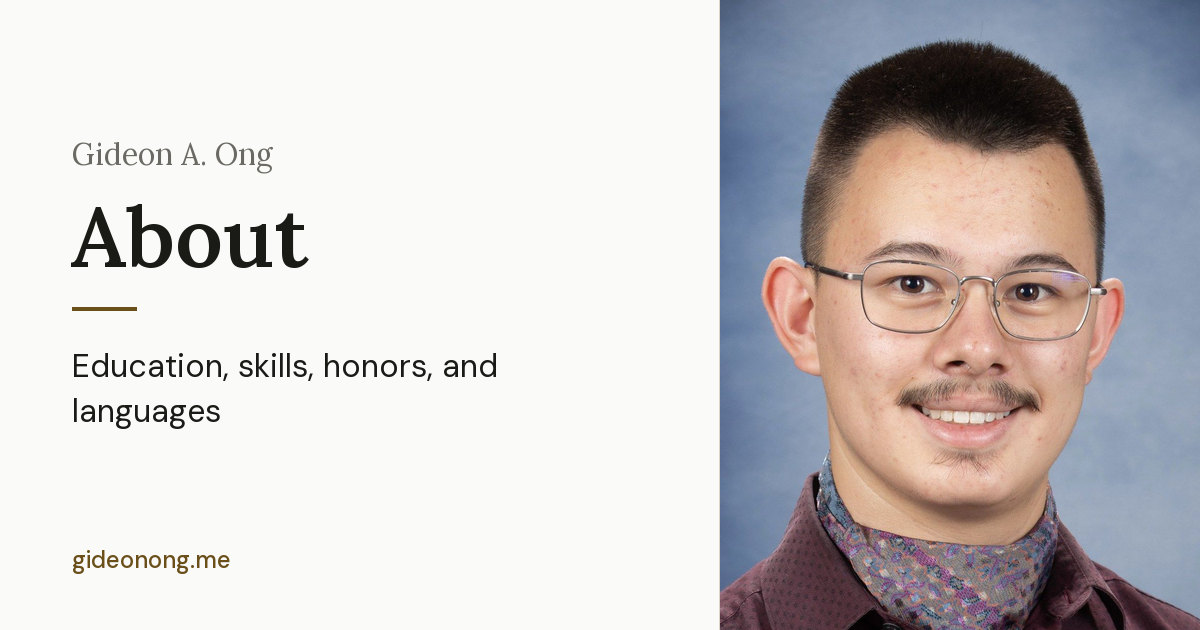
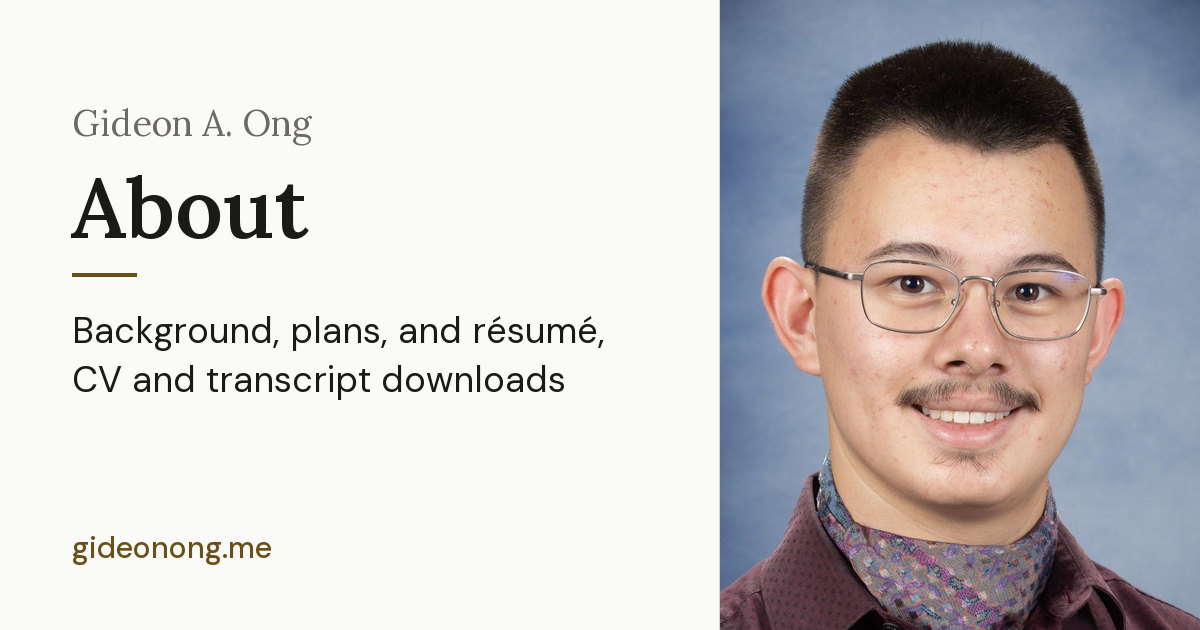
Link previews: LinkedIn-legible cards; Eagle photo card; About description
LinkedIn shows cards at ~400-550 px and re-compresses them, which turned
the G-View screenshot and the small card text to mush. Designed cards get
larger small text and a fitting loop (long titles shrink; text is never
cut, an overflow is an error). G-View becomes a designed card with a
native-scale detail of the demo chart. Eagle uses a people-free crop of
Matthew Rowan's finished-path photo with "Photo: Matthew Rowan" on the
card. Both switch from .png to .jpg; tags and alts updated.

About: card line and meta/og description now match what the page shows
(background, plans, résumé / CV / transcript downloads).

Changed region(s): [[0.0617, 0.4825, 0.4933, 0.6937], [0.0617, 0.181, 0.2775, 0.4524], [0.0617, 0.8444, 0.2467, 0.9048]]

diff --git a/projects/eagle-pathway.html b/projects/eagle-pathway.html
@@ -7,7 +7,7 @@
        render (and on language change) from the entry's title / desc keys. -->
   <title>Wheelchair-Accessible Pathway (Eagle Scout Project) — Gideon A. Ong</title>
   <meta name="description" content="Planned and led 27 volunteers to build a 273.5 sq ft ADA-compliant pathway for a business that employs adults with special needs.">
-  <!-- Link previews (static EN; scrapers don't run JS). Card: assets/images/og/eagle-pathway.png,
+  <!-- Link previews (static EN; scrapers don't run JS). Card: assets/images/og/eagle-pathway.jpg,
        made by scripts/make-og-cards.py. See CLAUDE.md → Link previews. -->
   <meta property="og:type" content="website">
   <meta property="og:site_name" content="Gideon A. Ong">
@@ -15,10 +15,10 @@
   <meta property="og:title" content="Wheelchair-Accessible Pathway (Eagle Scout Project)">
   <meta property="og:description" content="Planned and led 27 volunteers to build a 273.5 sq ft ADA-compliant pathway for a business that employs adults with special needs.">
   <meta property="og:url" content="https://gideonong.me/projects/eagle-pathway.html">
-  <meta property="og:image" content="https://gideonong.me/assets/images/og/eagle-pathway.png">
+  <meta property="og:image" content="https://gideonong.me/assets/images/og/eagle-pathway.jpg">
   <meta property="og:image:width" content="1200">
   <meta property="og:image:height" content="630">
-  <meta property="og:image:alt" content="Card: Wheelchair-Accessible Pathway (Eagle Scout Project), with the project's one-line summary">
+  <meta property="og:image:alt" content="Card: Wheelchair-Accessible Pathway (Eagle Scout Project), beside the finished decomposed granite pathway (photo: Matthew Rowan)">
   <meta name="twitter:card" content="summary_large_image">
   <link rel="icon" href="../assets/glogo.ico" type="image/x-icon">
   <!-- No-flash viewing settings: apply saved prefs to <html> before first paint.

diff --git a/projects/g-view.html b/projects/g-view.html
@@ -7,7 +7,7 @@
        render (and on language change) from the entry's title / desc keys. -->
   <title>G-View: Test Data Review App — Gideon A. Ong</title>
   <meta name="description" content="Built a desktop app for reviewing large test-data spreadsheets: plot the data, crop out bad sections, and export clean copies.">
-  <!-- Link previews (static EN; scrapers don't run JS). Card: assets/images/og/g-view.png,
+  <!-- Link previews (static EN; scrapers don't run JS). Card: assets/images/og/g-view.jpg,
        made by scripts/make-og-cards.py. See CLAUDE.md → Link previews. -->
   <meta property="og:type" content="website">
   <meta property="og:site_name" content="Gideon A. Ong">
@@ -15,10 +15,10 @@
   <meta property="og:title" content="G-View: Test Data Review App">
   <meta property="og:description" content="Built a desktop app for reviewing large test-data spreadsheets: plot the data, crop out bad sections, and export clean copies.">
   <meta property="og:url" content="https://gideonong.me/projects/g-view.html">
-  <meta property="og:image" content="https://gideonong.me/assets/images/og/g-view.png">
+  <meta property="og:image" content="https://gideonong.me/assets/images/og/g-view.jpg">
   <meta property="og:image:width" content="1200">
   <meta property="og:image:height" content="630">
-  <meta property="og:image:alt" content="G-View plotting speed, torque, oil temperature, and vibration from a demo test file">
+  <meta property="og:image:alt" content="Card: G-View: Test Data Review App, beside a detail of its demo chart">
   <meta name="twitter:card" content="summary_large_image">
   <link rel="icon" href="../assets/glogo.ico" type="image/x-icon">
   <!-- No-flash viewing settings: apply saved prefs to <html> before first paint.

diff --git a/about.html b/about.html
@@ -4,14 +4,14 @@
   <meta charset="UTF-8">
   <meta name="viewport" content="width=device-width, initial-scale=1.0">
   <title>About — Gideon A. Ong</title>
-  <meta name="description" content="About Gideon A. Ong: education, skills, honors, and languages.">
+  <meta name="description" content="About Gideon A. Ong: background, plans, and résumé, CV and transcript downloads.">
   <!-- Link previews (static EN; scrapers don't run JS). Card: assets/images/og/about.jpg,
        made by scripts/make-og-cards.py. See CLAUDE.md → Link previews. -->
   <meta property="og:type" content="website">
   <meta property="og:site_name" content="Gideon A. Ong">
   <meta property="og:locale" content="en_US">
   <meta property="og:title" content="About — Gideon A. Ong">
-  <meta property="og:description" content="About Gideon A. Ong: education, skills, honors, and languages.">
+  <meta property="og:description" content="About Gideon A. Ong: background, plans, and résumé, CV and transcript downloads.">
   <meta property="og:url" content="https://gideonong.me/about.html">
   <meta property="og:image" content="https://gideonong.me/assets/images/og/about.jpg">
   <meta property="og:image:width" content="1200">

diff --git a/scripts/make-og-cards.py b/scripts/make-og-cards.py
@@ -47,13 +47,14 @@ CARDS = {
         "kind": "designed", "format": "jpg",
         "title": "Gideon A. Ong",
         "line": "Mechanical Engineering & Spanish\nUniversity of Tulsa",
+        "line_size": 32,                              # keeps "… & Spanish" on one line
         "panel": [(IMG / "about" / "headshot.jpg", 0.5, 0.4)],
     },
     "about": {
         "kind": "designed", "format": "jpg",
         "kicker": "Gideon A. Ong",
         "title": "About",
-        "line": "Education, skills, honors, and languages",
+        "line": "Background, plans, and résumé, CV and transcript downloads",
         "panel": [(IMG / "about" / "headshot.jpg", 0.5, 0.4)],
     },
     "experience": {
@@ -75,18 +76,26 @@ CARDS = {
         "kind": "photo", "format": "jpg",
         "src": IMG / "projects" / "pump-cylinder-failure" / "pin-installed-wide.jpg", "focus": (0.5, 0.5),
     },
+    # Designed: a full screenshot's thin lines and small labels don't survive LinkedIn's
+    # downscale, so the panel is a native-scale detail of the demo chart (the vibration spike).
     "g-view": {
-        "kind": "photo", "format": "png",
-        "src": IMG / "projects" / "g-view" / "g-view-demo.png", "focus": (0.5, 0.0),   # trim the empty bottom
-    },
-    # Designed, no photo: the Eagle photos are Matthew Rowan's (credit OK pending).
-    "eagle-pathway": {
-        "kind": "designed", "format": "png",
+        "kind": "designed", "format": "jpg",
         "kicker": "Gideon A. Ong",
+        "title": "G-View: Test Data Review App",
+        "line": "Plot the data, crop out bad sections, and export clean copies",
+        "meta": "Industry · Summer 2026",
+        "panel": [(IMG / "projects" / "g-view" / "g-view-demo.png", 0.5, 0.5, (820, 55, 1420, 700))],
+    },
+    # Panel: the finished path from finished-path.jpg, cropped so no faces show. The Eagle
+    # photos are Matthew Rowan's, so the card carries his credit like the page does.
+    # No kicker and the first clause of projEaglePathwayDesc only: the long title needs the room.
+    "eagle-pathway": {
+        "kind": "designed", "format": "jpg",
         "title": "Wheelchair-Accessible Pathway (Eagle Scout Project)",
-        "line": "Planned and led 27 volunteers to build a 273.5 sq ft ADA-compliant pathway "
-                "for a business that employs adults with special needs.",
+        "line": "Planned and led 27 volunteers to build a 273.5 sq ft ADA-compliant pathway",
         "meta": "Service · July 2022",
+        "panel": [(IMG / "projects" / "eagle-pathway" / "finished-path.jpg", 0.5, 0.5, (500, 500, 930, 1063))],
+        "credit": "Photo: Matthew Rowan",
     },
 }
 
@@ -136,9 +145,9 @@ def wrap(draw: ImageDraw.ImageDraw, text: str, f: ImageFont.FreeTypeFont, width:
     return lines
 
 
-def cover(src: Path, size: tuple[int, int], focus: tuple[float, float]) -> Image.Image:
+def cover(src: Path | Image.Image, size: tuple[int, int], focus: tuple[float, float]) -> Image.Image:
     """Scale to cover `size`, then crop around the focus point (fractions of the source)."""
-    im = Image.open(src).convert("RGB")
+    im = src if isinstance(src, Image.Image) else Image.open(src).convert("RGB")
     w, h = size
     scale = max(w / im.width, h / im.height)
     im = im.resize((round(im.width * scale), round(im.height * scale)), Image.LANCZOS)
@@ -147,18 +156,29 @@ def cover(src: Path, size: tuple[int, int], focus: tuple[float, float]) -> Image
     return im.crop((x, y, x + w, y + h))
 
 
-def draw_panel(im: Image.Image, d: ImageDraw.ImageDraw, panel: list) -> None:
+def draw_panel(im: Image.Image, d: ImageDraw.ImageDraw, panel: list, credit: str = "") -> None:
+    """Photos down the right side. Each item is (path, focus_x, focus_y) or
+    (path, focus_x, focus_y, (l, t, r, b)) to crop the source (in pixels) first."""
     pw = W - PANEL_X
     gap = 4
     ph = (H - gap * (len(panel) - 1)) // len(panel)
     y = 0
-    for i, (src, fx, fy) in enumerate(panel):
+    for i, item in enumerate(panel):
+        src, fx, fy = item[:3]
+        if len(item) > 3:                           # pre-crop, e.g. a detail of a screenshot
+            src = Image.open(src).convert("RGB").crop(item[3])
         h = ph if i < len(panel) - 1 else H - y
         im.paste(cover(src, (pw, h), (fx, fy)), (PANEL_X, y))
         y += h + gap
     if len(panel) > 1:                              # hairline gaps between stacked photos
         d.rectangle((PANEL_X, ph, W, ph + gap - 1), fill=BG)
     d.line([(PANEL_X - 1, 0), (PANEL_X - 1, H)], fill=BORDER, width=1)
+    if credit:                                      # photo credit on a dark bar, like the experience hero captions
+        f = font("sans", 22)
+        tw = d.textlength(credit, font=f)
+        bar = Image.new("RGBA", (int(tw) + 28, 40), (26, 21, 16, 190))
+        im.paste(bar, (W - bar.width, H - bar.height), bar)
+        d.text((W - bar.width + 14, H - bar.height + 7), credit, font=f, fill="#F2EEE6")
 
 
 def make_designed(spec: dict) -> Image.Image:
@@ -166,40 +186,57 @@ def make_designed(spec: dict) -> Image.Image:
     d = ImageDraw.Draw(im)
     panel = spec.get("panel")
     if panel:
-        draw_panel(im, d, panel)
+        draw_panel(im, d, panel, spec.get("credit", ""))
     col_w = (PANEL_X if panel else W) - 2 * PAD
+    # Sizes are set for LinkedIn, which shows the card at ~400-550 px wide and re-compresses
+    # it: small text must stay readable there.
+    f_kick = font("serif", 36)
+    f_meta = font("sans-medium", 29)
+    f_site = font("sans-medium", 30)
+    footer_top = H - PAD - 30                        # the site line sits at the bottom left
 
-    # measure the text block, then center it vertically above the footer
-    f_kick = font("serif", 30)
-    f_title = font("serif-semi", 84 if panel else 62)
-    t_lines = wrap(d, spec["title"], f_title, col_w)
-    f_line = font("sans", 32 if panel else 30)
-    l_lines = wrap(d, spec["line"], f_line, col_w)[:4]
-    f_meta = font("sans-medium", 24)
+    def block_height(f_title, t_lines, f_line, l_lines):
+        return (54 if "kicker" in spec else 0) + int(f_title.size * 1.12) * len(t_lines) + 26 + 4 + 30 \
+            + int(f_line.size * 1.38) * len(l_lines) + (48 if "meta" in spec else 0)
 
-    t_lead, l_lead = int(f_title.size * 1.14), int(f_line.size * 1.42)
-    block = (48 if "kicker" in spec else 0) + t_lead * len(t_lines) + 30 + 4 + 34 + l_lead * len(l_lines) \
-        + (44 if "meta" in spec else 0)
-    y = max(PAD - 8, (H - 60 - block) // 2)
+    # Fit: the title steps down until it takes 2 lines (3 once small), then the line steps
+    # down, until the block fits above the footer. Text is never cut: a card that can't fit
+    # is an error, so shorten its text in CARDS.
+    t_size, l_size = (84 if panel else 72), spec.get("line_size", 36 if panel else 34)
+    while True:
+        f_title = font("serif-semi", t_size)
+        t_lines = wrap(d, spec["title"], f_title, col_w)
+        f_line = font("sans", l_size)
+        l_lines = wrap(d, spec["line"], f_line, col_w)
+        block = block_height(f_title, t_lines, f_line, l_lines)
+        if block <= footer_top - 40 and len(l_lines) <= 4 and len(t_lines) <= (2 if t_size > 56 else 3):
+            break
+        if t_size > 52 and (len(t_lines) > 2 or block > footer_top - 40):
+            t_size -= 4
+        elif l_size > 30:
+            l_size -= 2
+        else:
+            raise ValueError(f"card text doesn't fit: {spec['title']!r} — shorten it in CARDS")
+
+    y = max(40, (footer_top - 24 - block) // 2)
     x = PAD
-
     if "kicker" in spec:
         d.text((x, y), spec["kicker"], font=f_kick, fill=MUTED)
-        y += 48
+        y += 54
     for ln in t_lines:
         d.text((x - 2, y), ln, font=f_title, fill=INK)
-        y += t_lead
-    y += 30
+        y += int(f_title.size * 1.12)
+    y += 26
     d.rectangle((x, y, x + 64, y + 3), fill=BRONZE)  # the hero's short bronze rule
-    y += 4 + 34
+    y += 4 + 30
     for ln in l_lines:
         d.text((x, y), ln, font=f_line, fill=INK)
-        y += l_lead
+        y += int(f_line.size * 1.38)
     if "meta" in spec:
-        y += 14
+        y += 12
         d.text((x, y), spec["meta"], font=f_meta, fill=MUTED)
 
-    d.text((x, H - PAD + 10 - 24), SITE, font=font("sans-medium", 24), fill=BRONZE)
+    d.text((x, footer_top), SITE, font=f_site, fill=BRONZE)
     return im
 
 

diff --git a/CLAUDE.md b/CLAUDE.md
@@ -253,8 +253,13 @@ runtime but never the og tags.
   fetched into the git-ignored scripts/.og-fonts/). Rerun it from the repo root:
     & "$env:LOCALAPPDATA\Python\pythoncore-3.14-64\python.exe" scripts/make-og-cards.py [name ...]
   Same content rules as the pages: Baker Hughes only through images already published, no
-  new photos of people, nothing political. The Eagle card is a designed text card (the
-  photos are Matthew Rowan's).
+  new photos of people, nothing political. The Eagle card uses a people-free crop of
+  Matthew Rowan's finished-path photo and carries "Photo: Matthew Rowan" on the card (a shared
+  card has no credit line of its own); Gideon's call, 2026-09-29.
+- Cards are sized for LinkedIn, which shows them at ~400–550 px and re-compresses them: keep
+  the designed-card text sizes, and prefer a designed card with a detail crop over a full
+  screenshot (G-View's full screenshot turned to mush). The script shrinks a long title to
+  fit and stops with an error rather than cut text; shorten the text in CARDS if it does.
 - A new project sub-page needs its own CARDS entry and its own tag block (copy one from
   another sub-page and change title, description, url, image, alt). The local editor strips
   the block from the shells it creates (they are built from projects/g-view.html), so a new
